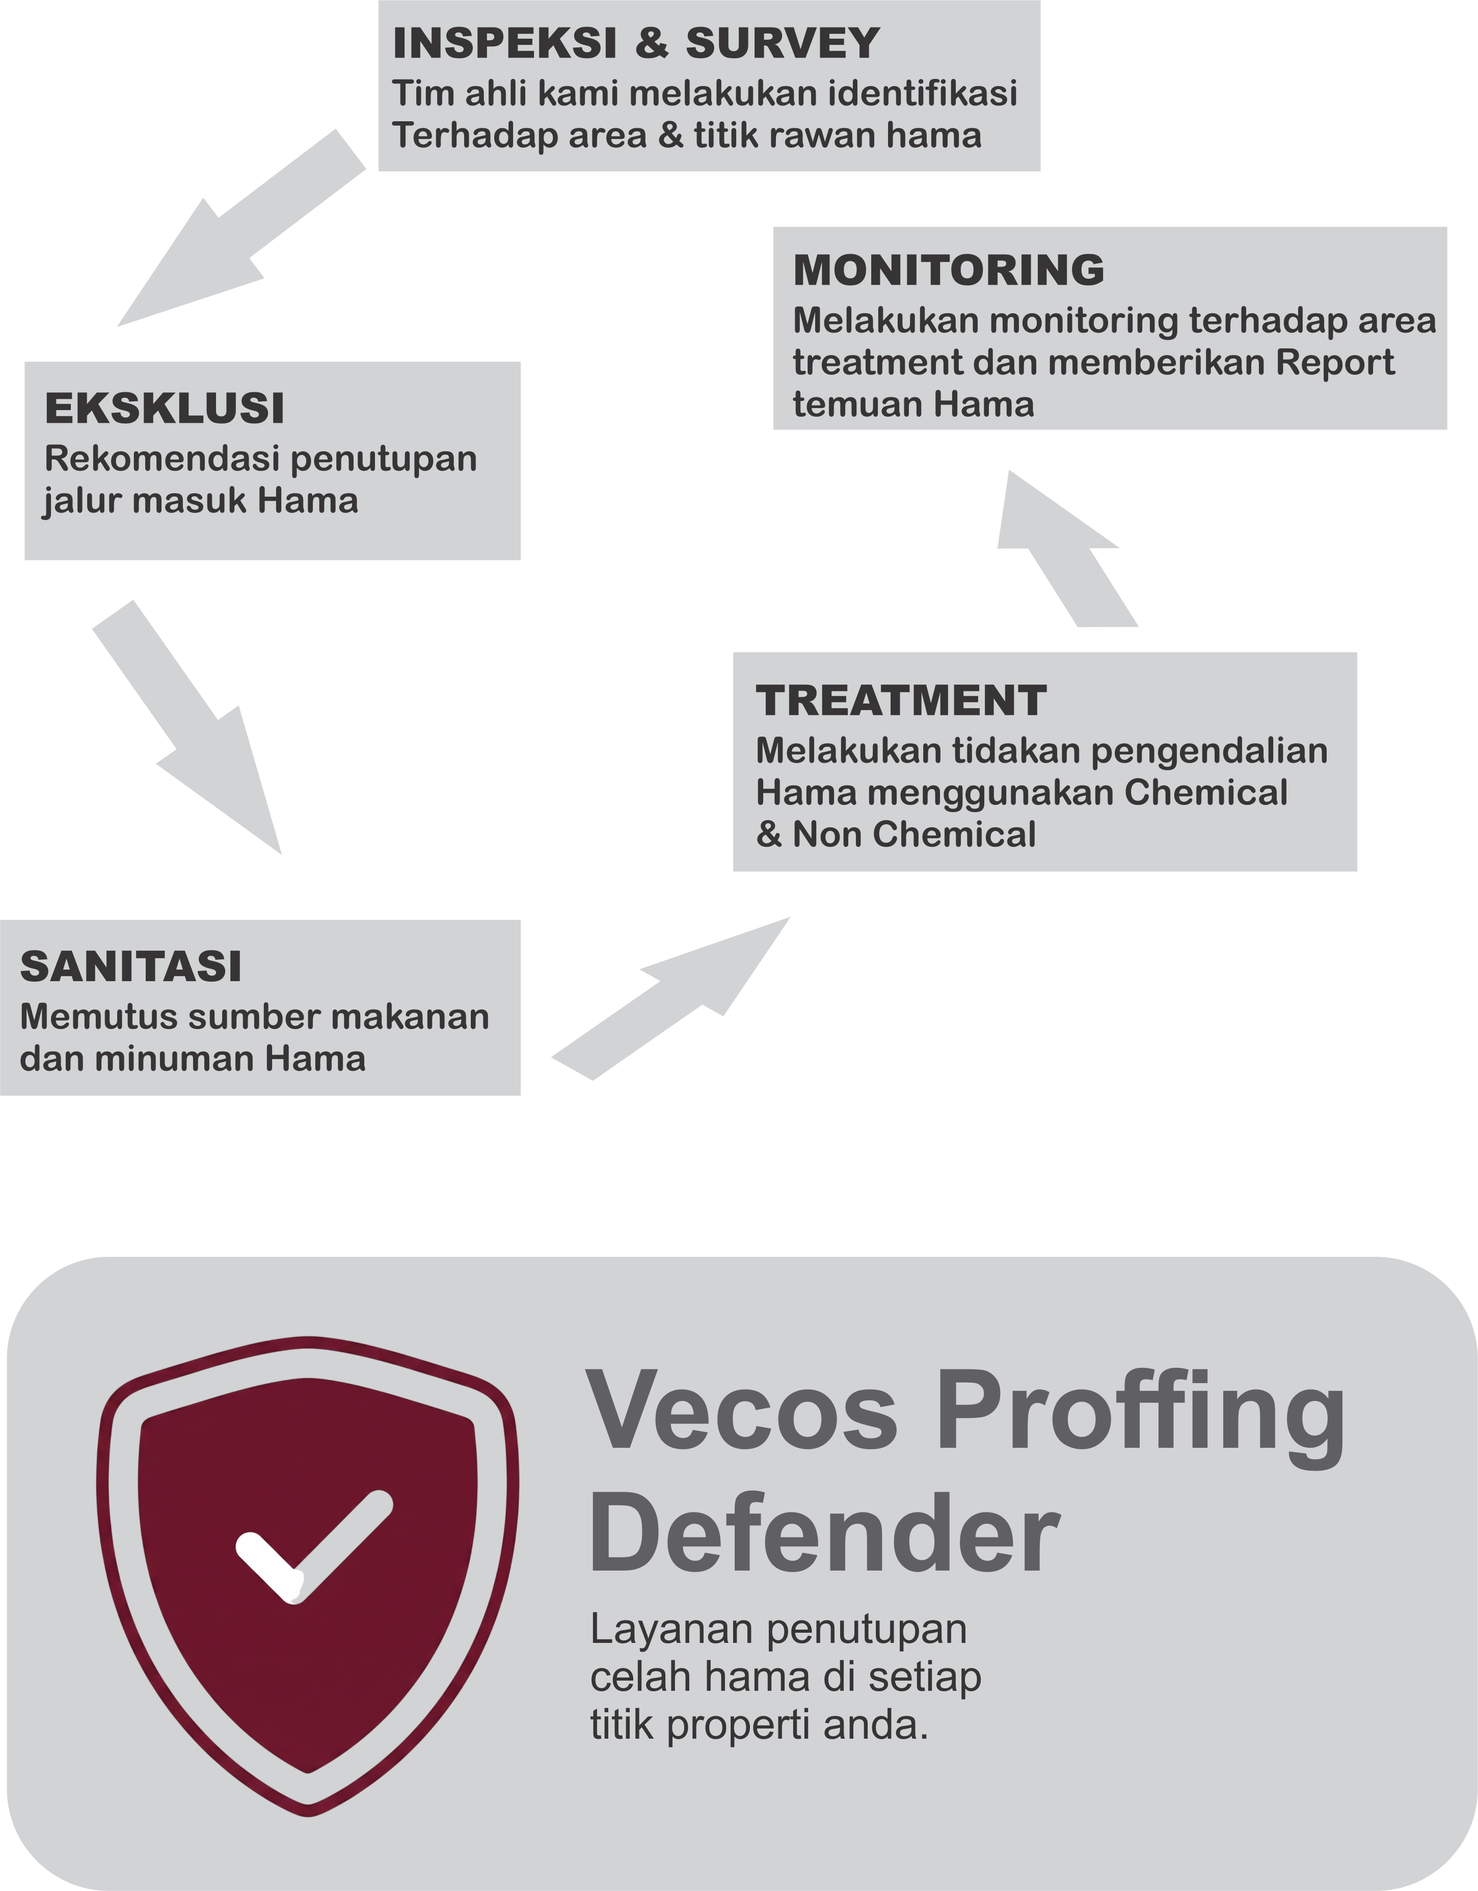
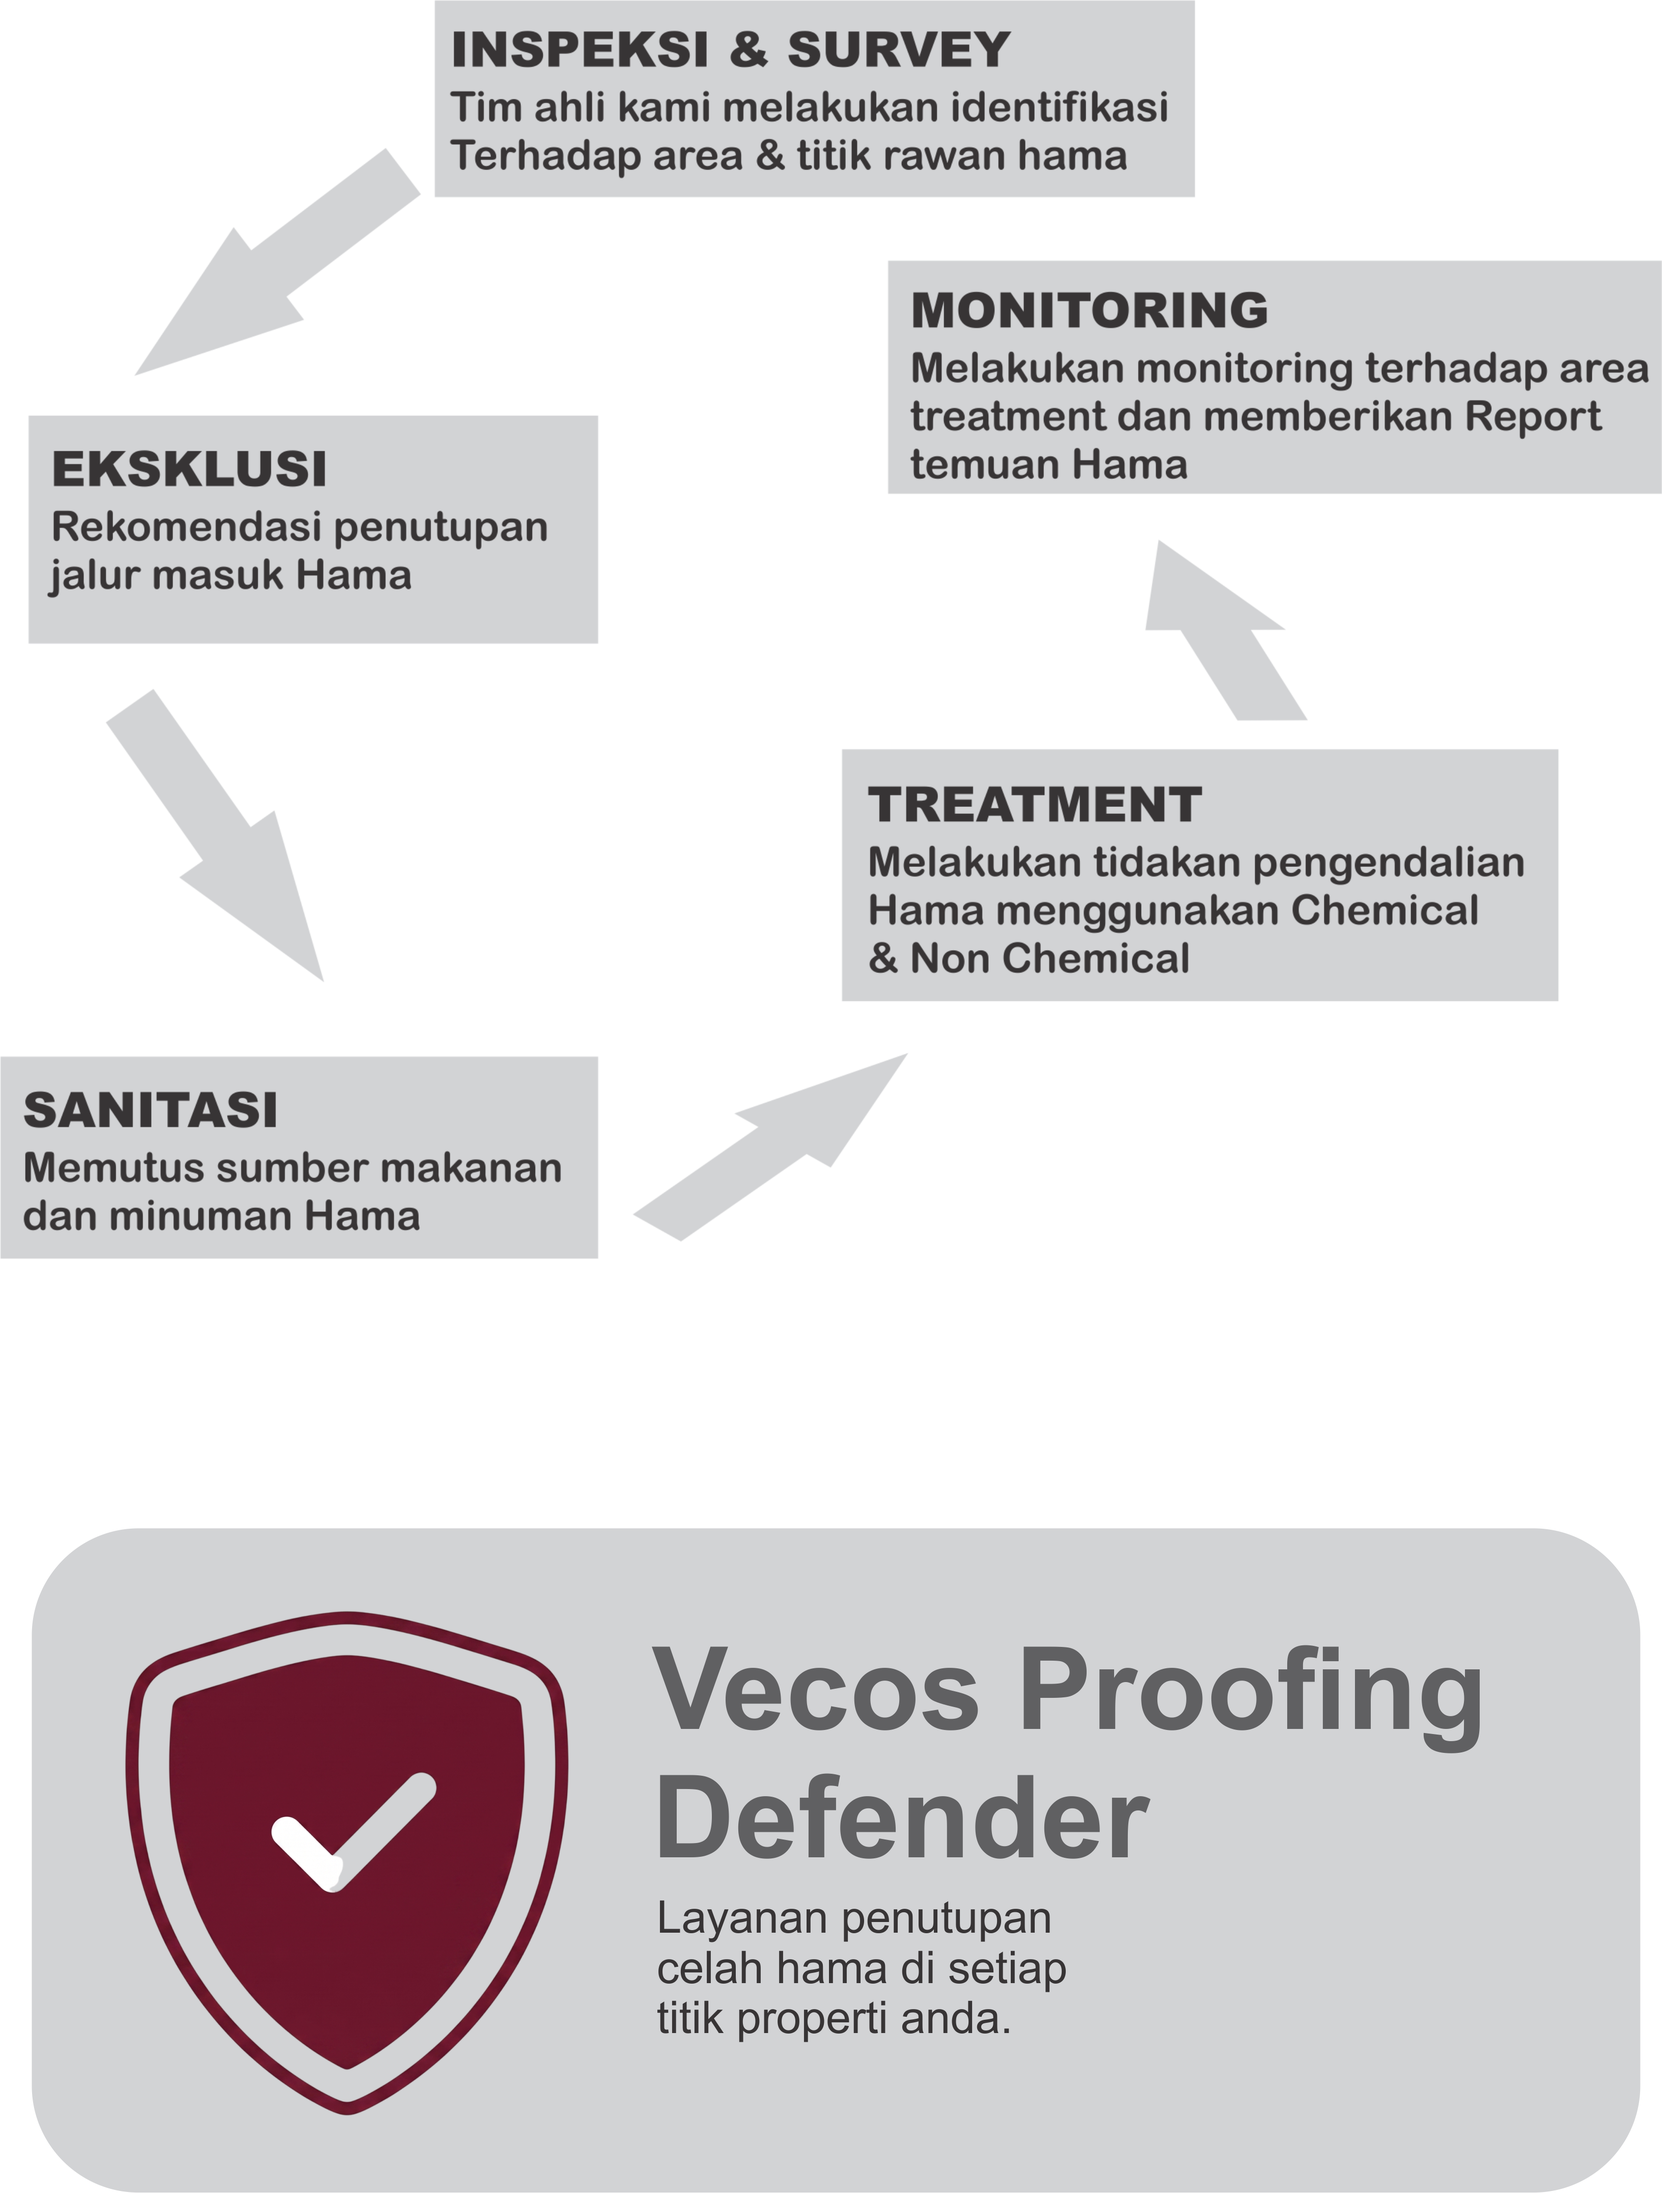
feat: add homepage hero slides and article offers with pest control content

diff --git a/app/page.tsx b/app/page.tsx
@@ -2216,7 +2216,7 @@ Halo Tim VECOS, saya ingin mengajukan jadwal survey lokasi dan konsultasi pengen
 
             <div className="space-y-1 sm:space-y-1.5 flex-1">
               <h3 className="text-xl sm:text-2xl md:text-3xl font-extrabold text-[#3a3f4d] tracking-tight leading-snug">
-                <span className="block">Vecos Proffing</span>
+                <span className="block">Vecos Proofing</span>
                 <span className="block">Defender</span>
               </h3>
               <p className="text-xs sm:text-sm md:text-base text-[#4f5563] font-medium leading-relaxed max-w-xl">
